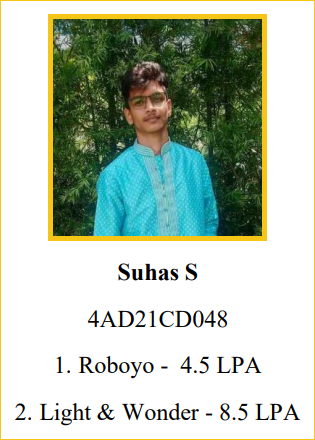
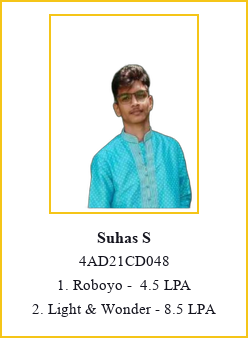
Remove backgrounds from DS placement student photos; equal-height cards; fix broken placement-statistics poster grid
- DS placements: background-removed all 11 student photos (rembg) onto a
  clean white 150x200 box with a yellow frame, and redrew each card
  (photo + name + USN + package details) at one fixed size so every card
  in the grid is the same height regardless of how many detail lines a
  student has (e.g. Suhas S's two job offers vs everyone else's one).
  Name/USN/package text is copied verbatim from the original source
  images, including a couple of names that were originally all-caps
  (DEEPIKA ARYAN M B, SRI SHAKTHI PRATHIBHA S, DRISHYA A S, CHETHAN KUMAR
  M, KESHAV S KULKARNI) and one label with no space before the dash
  ("Lumos Learning- 5 LPA") — preserved exactly rather than normalized.
  ds43 (previously a lone gitignored uploads/ file) moved alongside the
  other 10 cards under public/images/ds-placements/ for consistency.

- p.$.tsx: the "Congratulations to our Placed Students" poster grid on
  /p/placement-statistics built image URLs as raw `/images/uploads/...`
  strings instead of passing them through resolveAssetUrl, so in
  production (where that folder is gitignored and actually served from
  the R2 CDN, not Hostinger) every poster 404'd — confirmed live via
  browser network trace. Wrapped the URL in resolveAssetUrl, matching
  every other image reference in this file.

diff --git a/src/routes/p.$.tsx b/src/routes/p.$.tsx
@@ -873,7 +873,7 @@ function RehostedPage() {
                           "pg5-1024x1024.jpeg","pg6-1024x1024.jpeg","pg7-1024x1024.jpeg","pg8-1024x1024.jpeg",
                           "pg9-1024x1024.jpeg","pg10-1024x1024.jpeg","pg11-1024x1024.jpeg",
                         ].map((f, i) => {
-                          const url = `/images/uploads/2026/04/${f}`;
+                          const url = resolveAssetUrl(`/images/uploads/2026/04/${f}`);
                           return (
                             <a
                               key={f}
